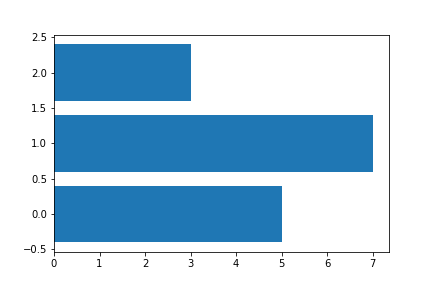
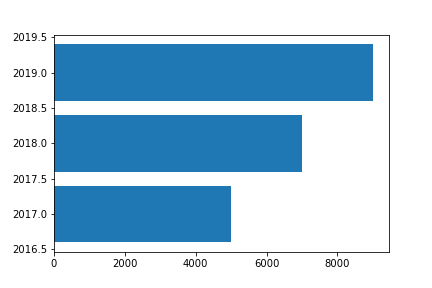
add pie chart

diff --git a/data_science_en.md b/data_science_en.md
@@ -349,14 +349,31 @@ when you have a 2 by 2 matrix it is counted from columns to row
 
 ### Bar Plots
 
-    x_values = (0, 1, 2)
-    y_values = (5, 7, 3)
-    plt.bar(x_values, y_values, width = 0.35)
-    plt.xticks(x_values, ('B1', 'B2', 'B3'))
+    years = (2017, 2018, 2019)
+    revenue = (5000, 7000, 9000)
+    plt.bar(years, revenue, width=0.35)
+    plt.xticks(years)
+    plt.title("Revenue over years")
 
 ![](images/pyplot_bar_plot.png "")
 
-    plt.barh(x_values, (5, 7, 3))
+#### Stacked Bar
+    years = (2017, 2018, 2019)
+    revenue_customer_a = (2500, 2300, 2000)
+    revenue_customer_b = (2500, 4700, 7000)
+    width = 0.35       
+    
+    p1 = plt.bar(years, revenue_customer_a, width)
+    p2 = plt.bar(years, revenue_customer_b, width, bottom=revenue_customer_a)
+    
+    plt.title('Revenue over years')
+    plt.xticks(years)
+    plt.legend((p1[0], p2[0]), ("Customer A", "Customer B"))
+    
+![](images/pyplot_stacked_bar.png "")
+
+#### Horizontal Bar
+    plt.barh(years, revenue)
 
 ![](images/pyplot_bar_plot_h.png "")
 
